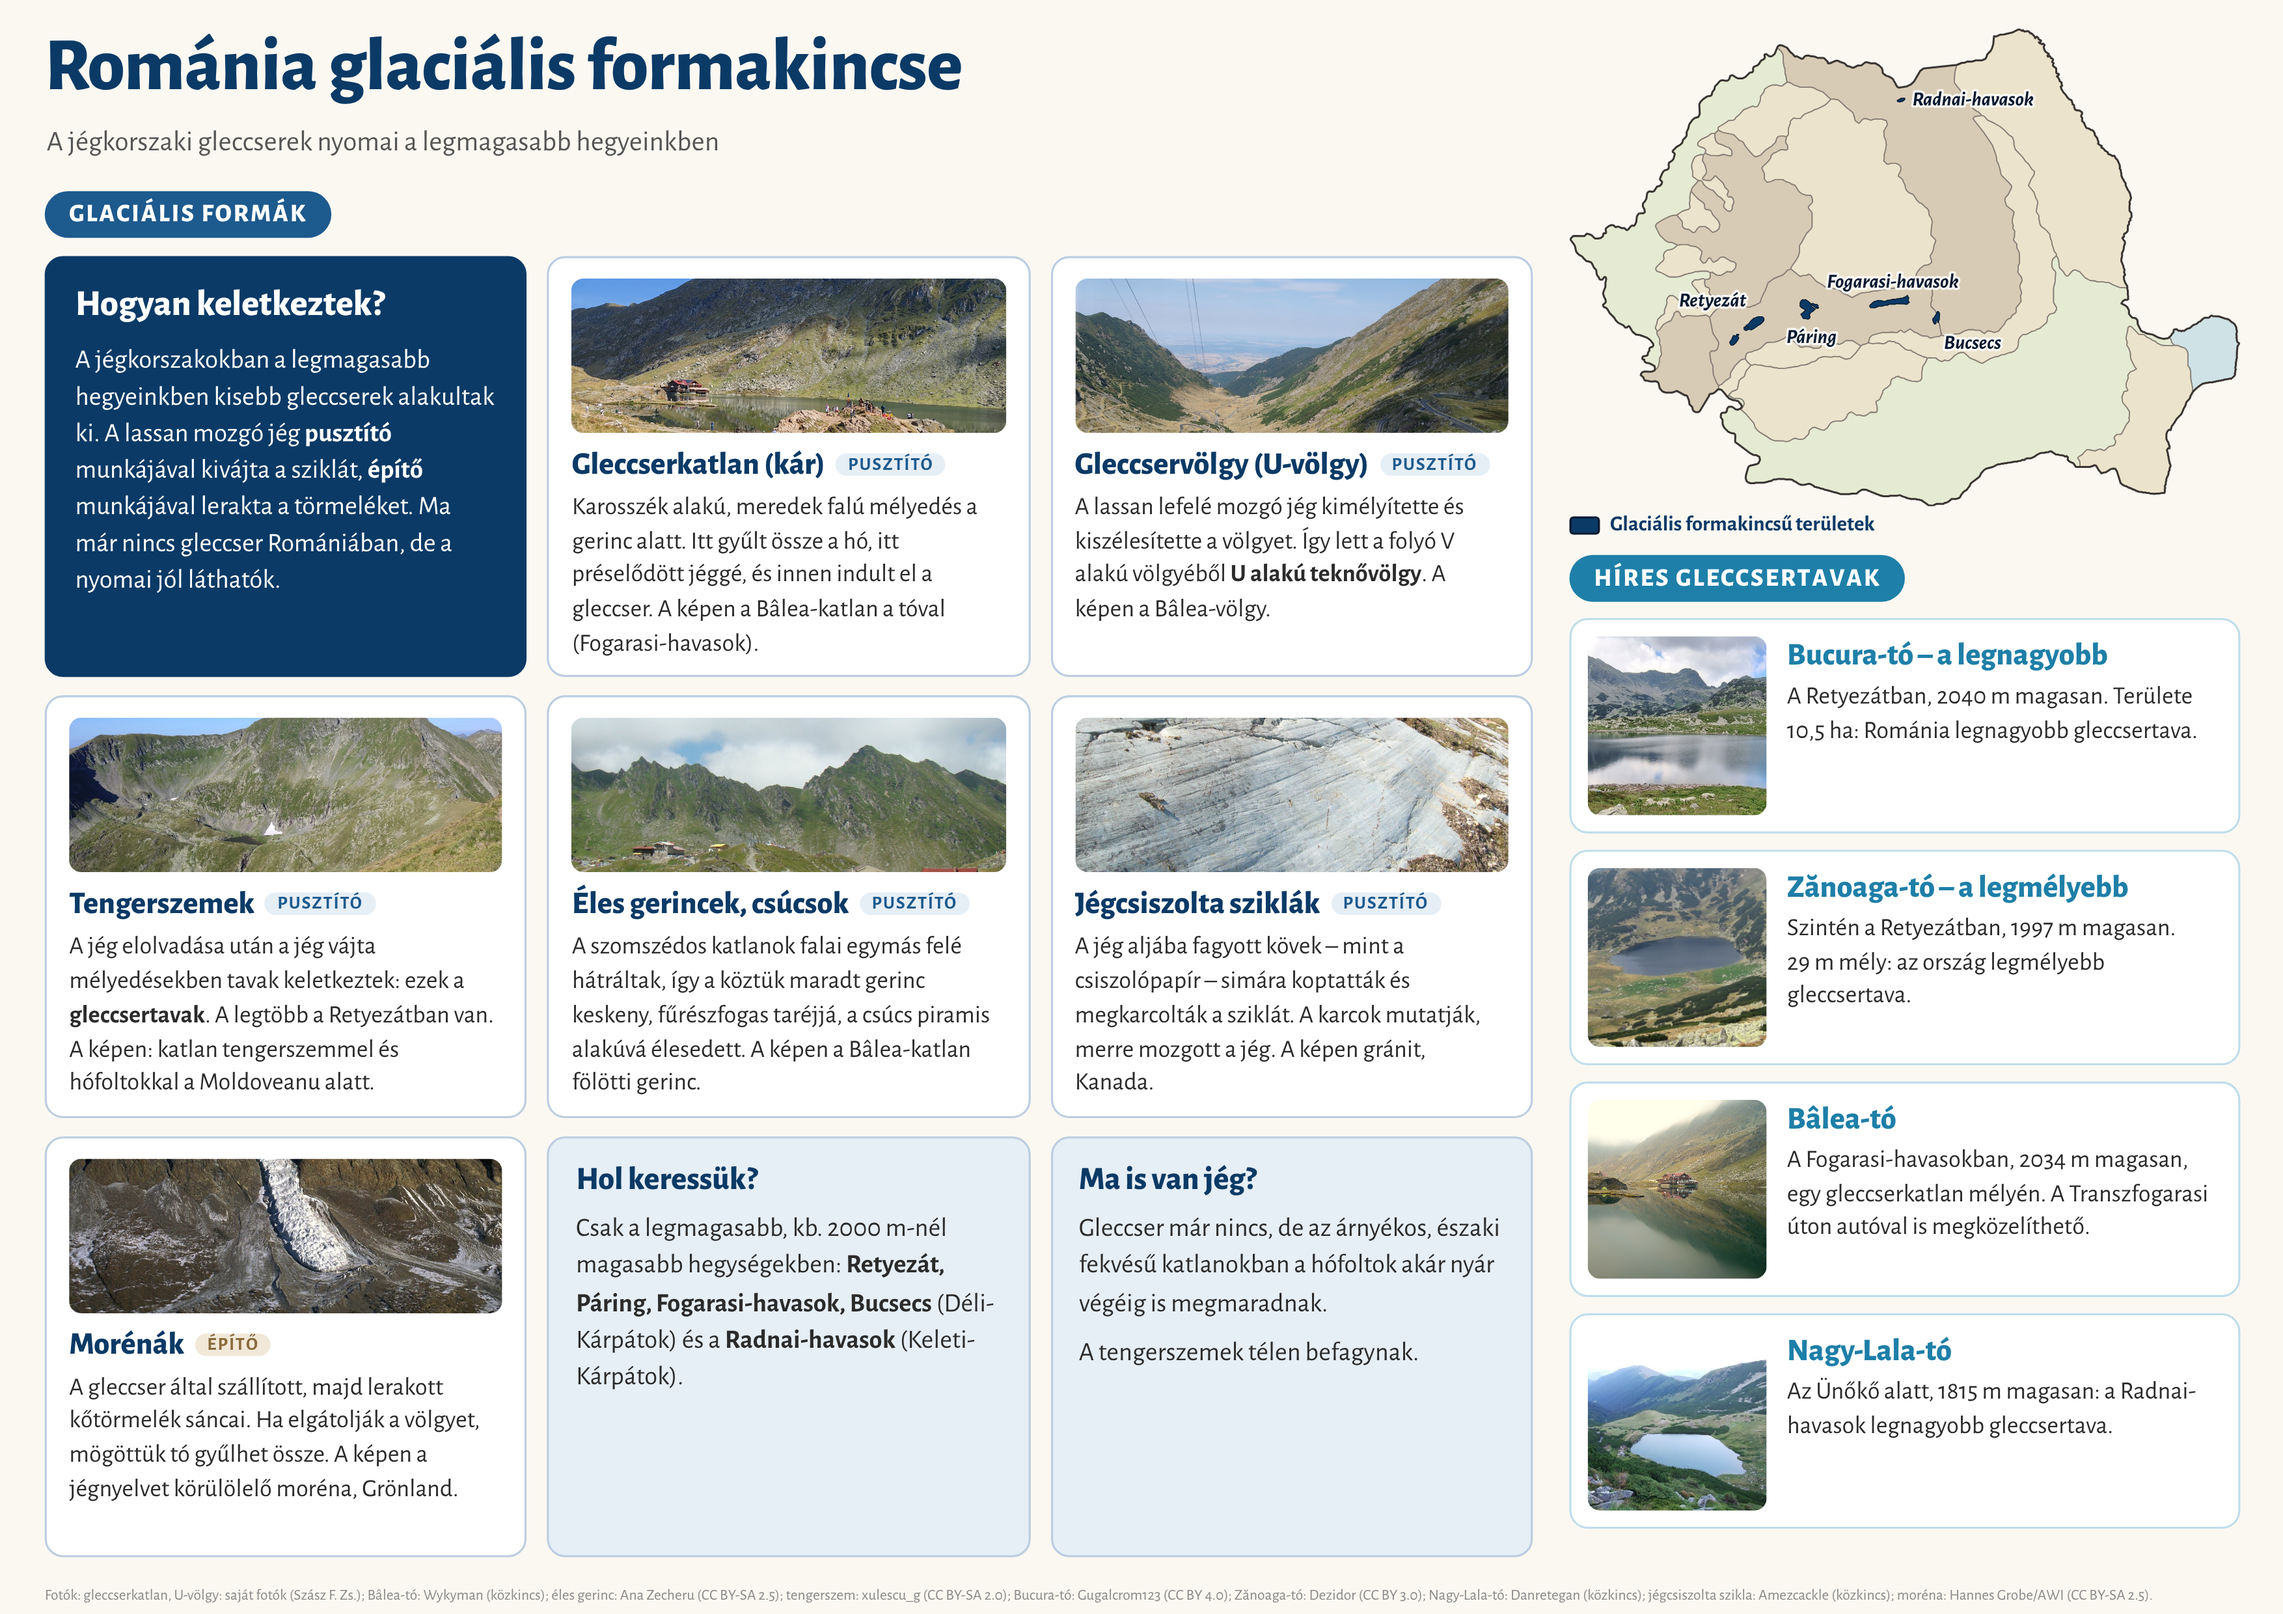
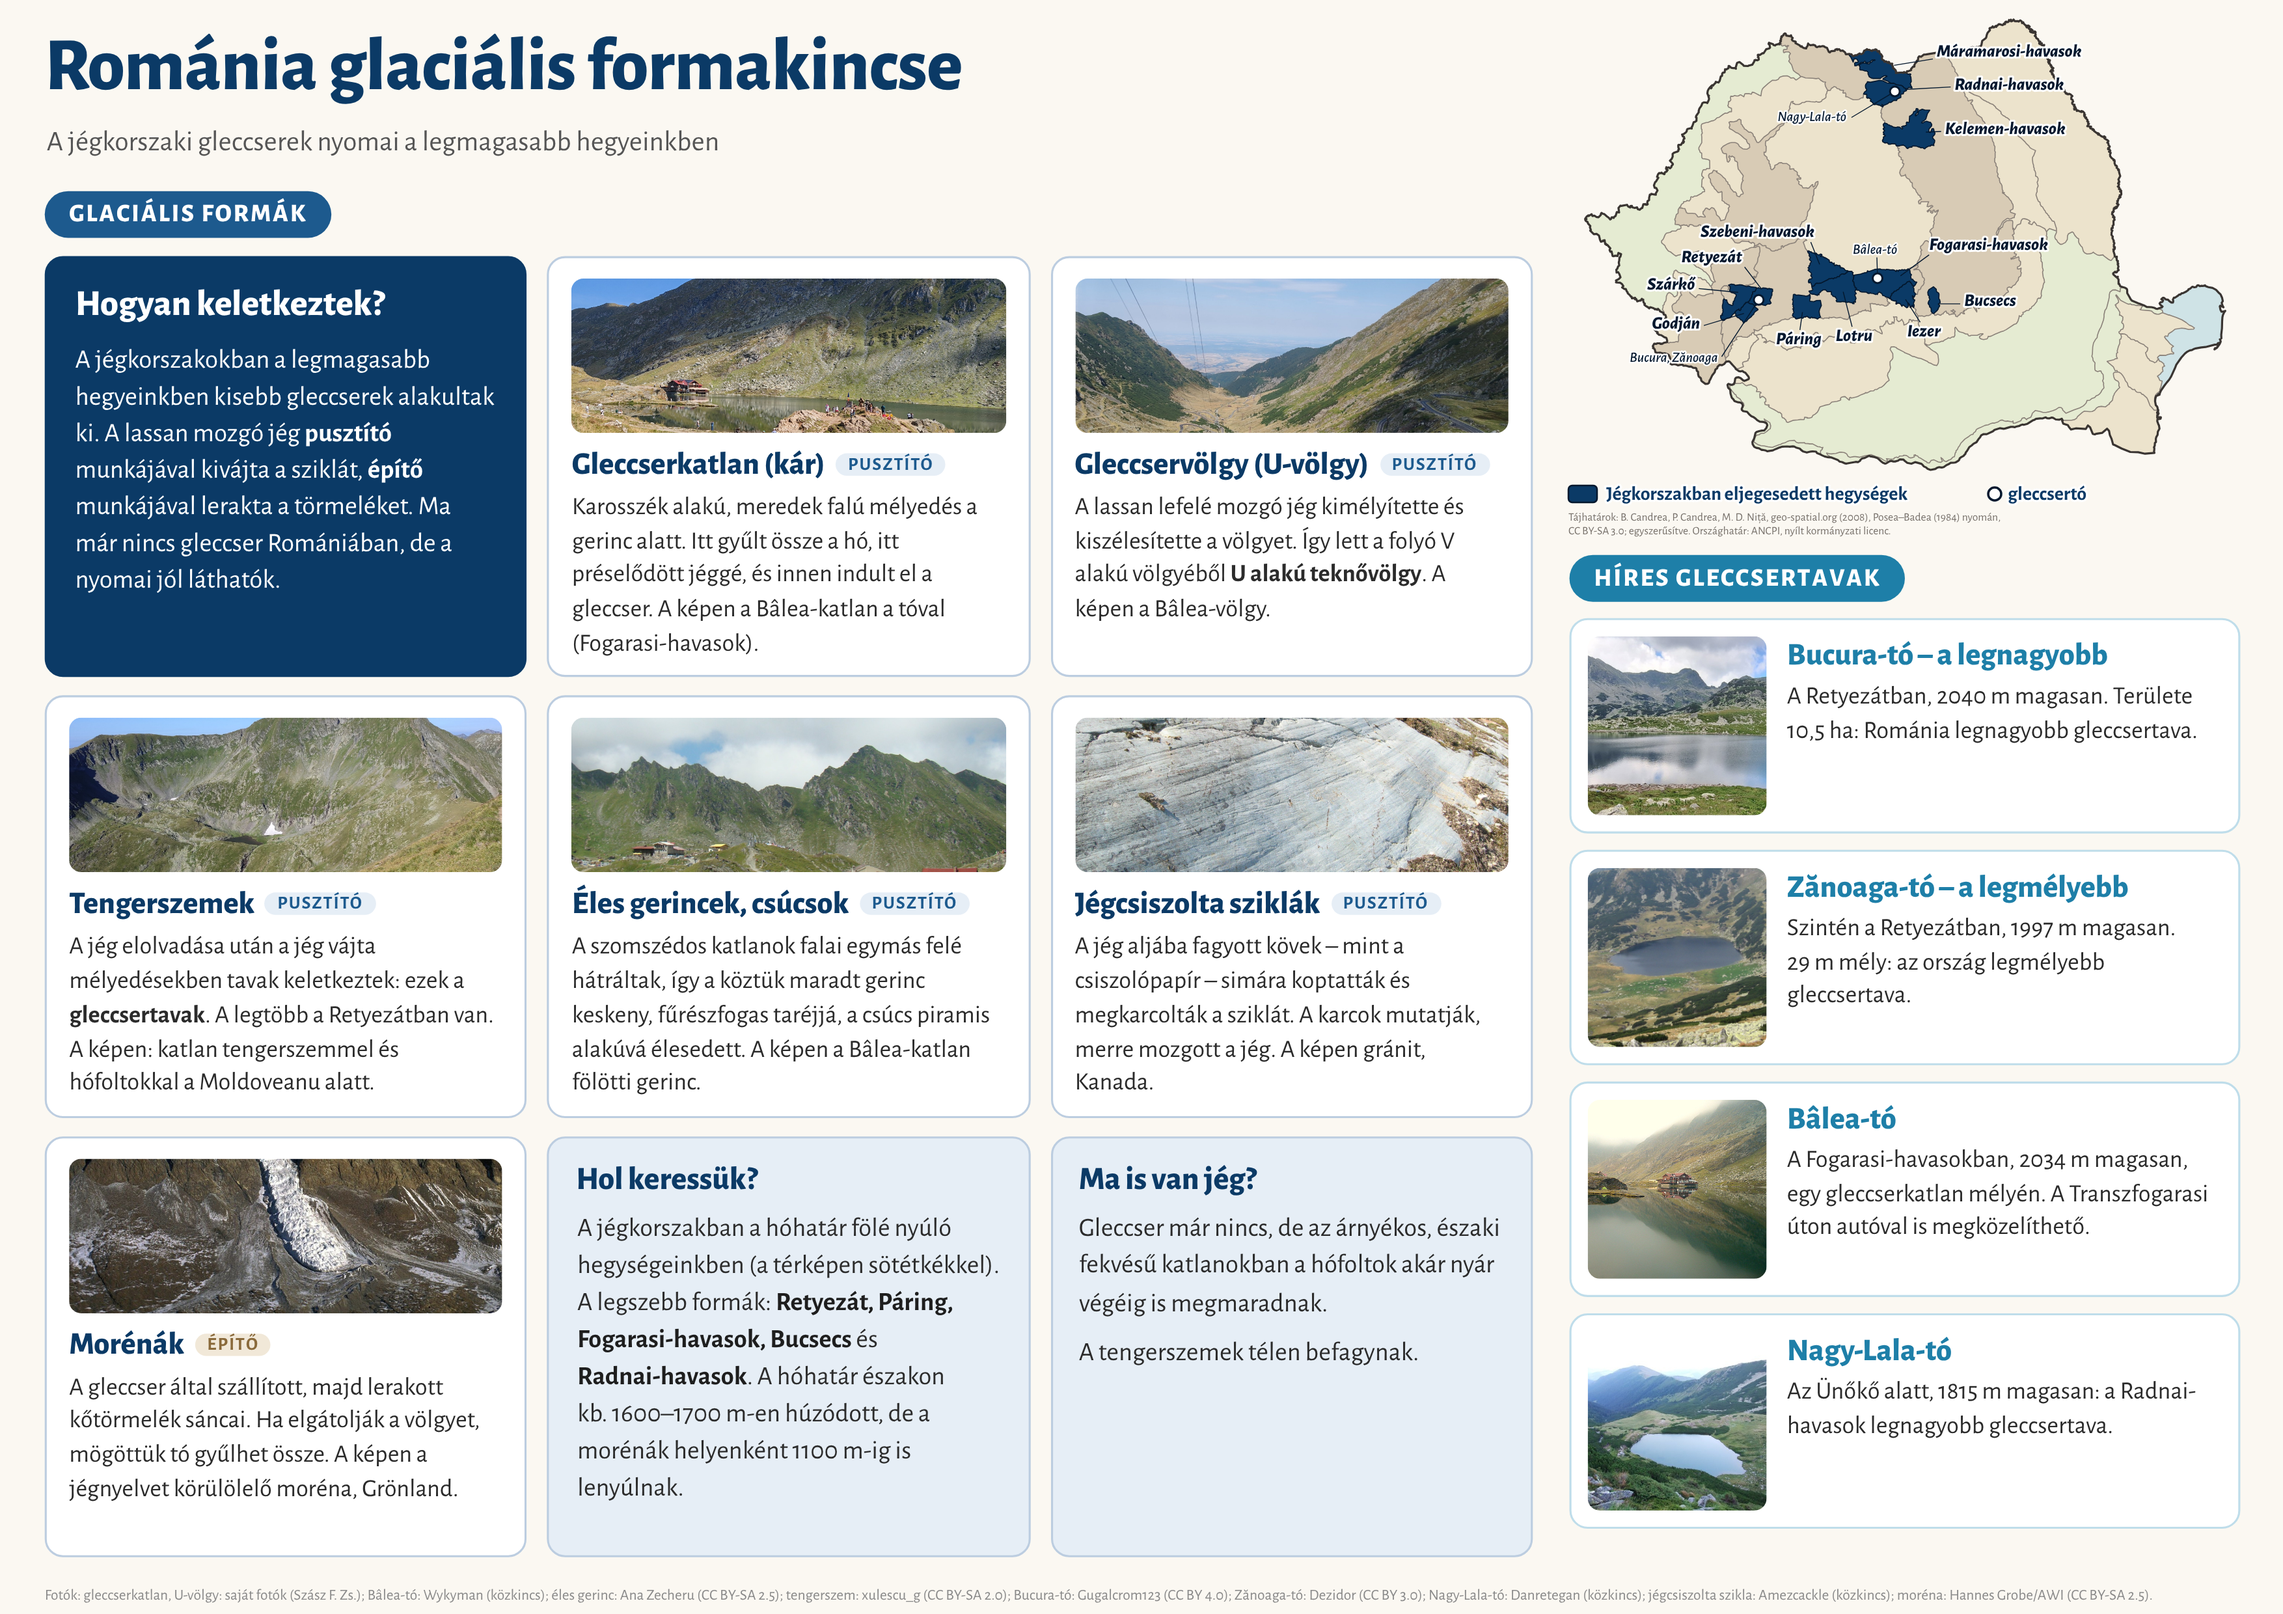
Glaciális lap: új, tiszta forrású térkép és pontosított „Hol keressük?” szöveg (8. osztály)
Claude-Session: https://claude.ai/code/session_01PKV4kdeD9ggDrcx2pMVL7L

Changed region(s): [[0.6836, 0.0, 0.9943, 0.3415], [0.2486, 0.7452, 0.435, 0.9315]]

diff --git a/README.md b/README.md
@@ -23,7 +23,7 @@ Kezdőlap: https://szaszfzsolt.github.io/szemleltetok/
 - Az Űrszótár fényképei a NASA, az ESA és a JPL szabadon felhasználható felvételei; a forrás minden képnél fel van tüntetve.
 - A növényi sejt ábrája Mariana Ruiz Villarreal (LadyofHats) közkincs rajza a Wikimedia Commonsról, Németh László magyar fordításával.
 - A glaciális és a karszt lap fotói többnyire a Wikimedia Commonsról származnak; a szerzők és a licencek a lapok alján vannak felsorolva.
-- A Románia domborzatának kialakulása térképe nyílt adatokból készült: a tájhatárok B. Candrea, P. Candrea és M. D. Niță adatkészletéből (geo-spatial.org, 2008; Posea–Badea 1984 nyomán; CC BY-SA 3.0), az országhatár és a települések az ANCPI-től (nyílt kormányzati licenc). A forrás a lapon is fel van tüntetve.
+- A Románia domborzatának kialakulása térképe nyílt adatokból készült: a tájhatárok B. Candrea, P. Candrea és M. D. Niță adatkészletéből (geo-spatial.org, 2008; Posea–Badea 1984 nyomán; CC BY-SA 3.0), az országhatár és a települések az ANCPI-től (nyílt kormányzati licenc). A forrás a lapon is fel van tüntetve. Ugyanezekből az adatokból készült a glaciális lap kis térképe is.
 - A Növénymozgás-kaland és a Mikroszkópos megfigyelések illusztrációi mesterséges intelligenciával (Nano Banana) készültek.
 
 ## Szerkezet
